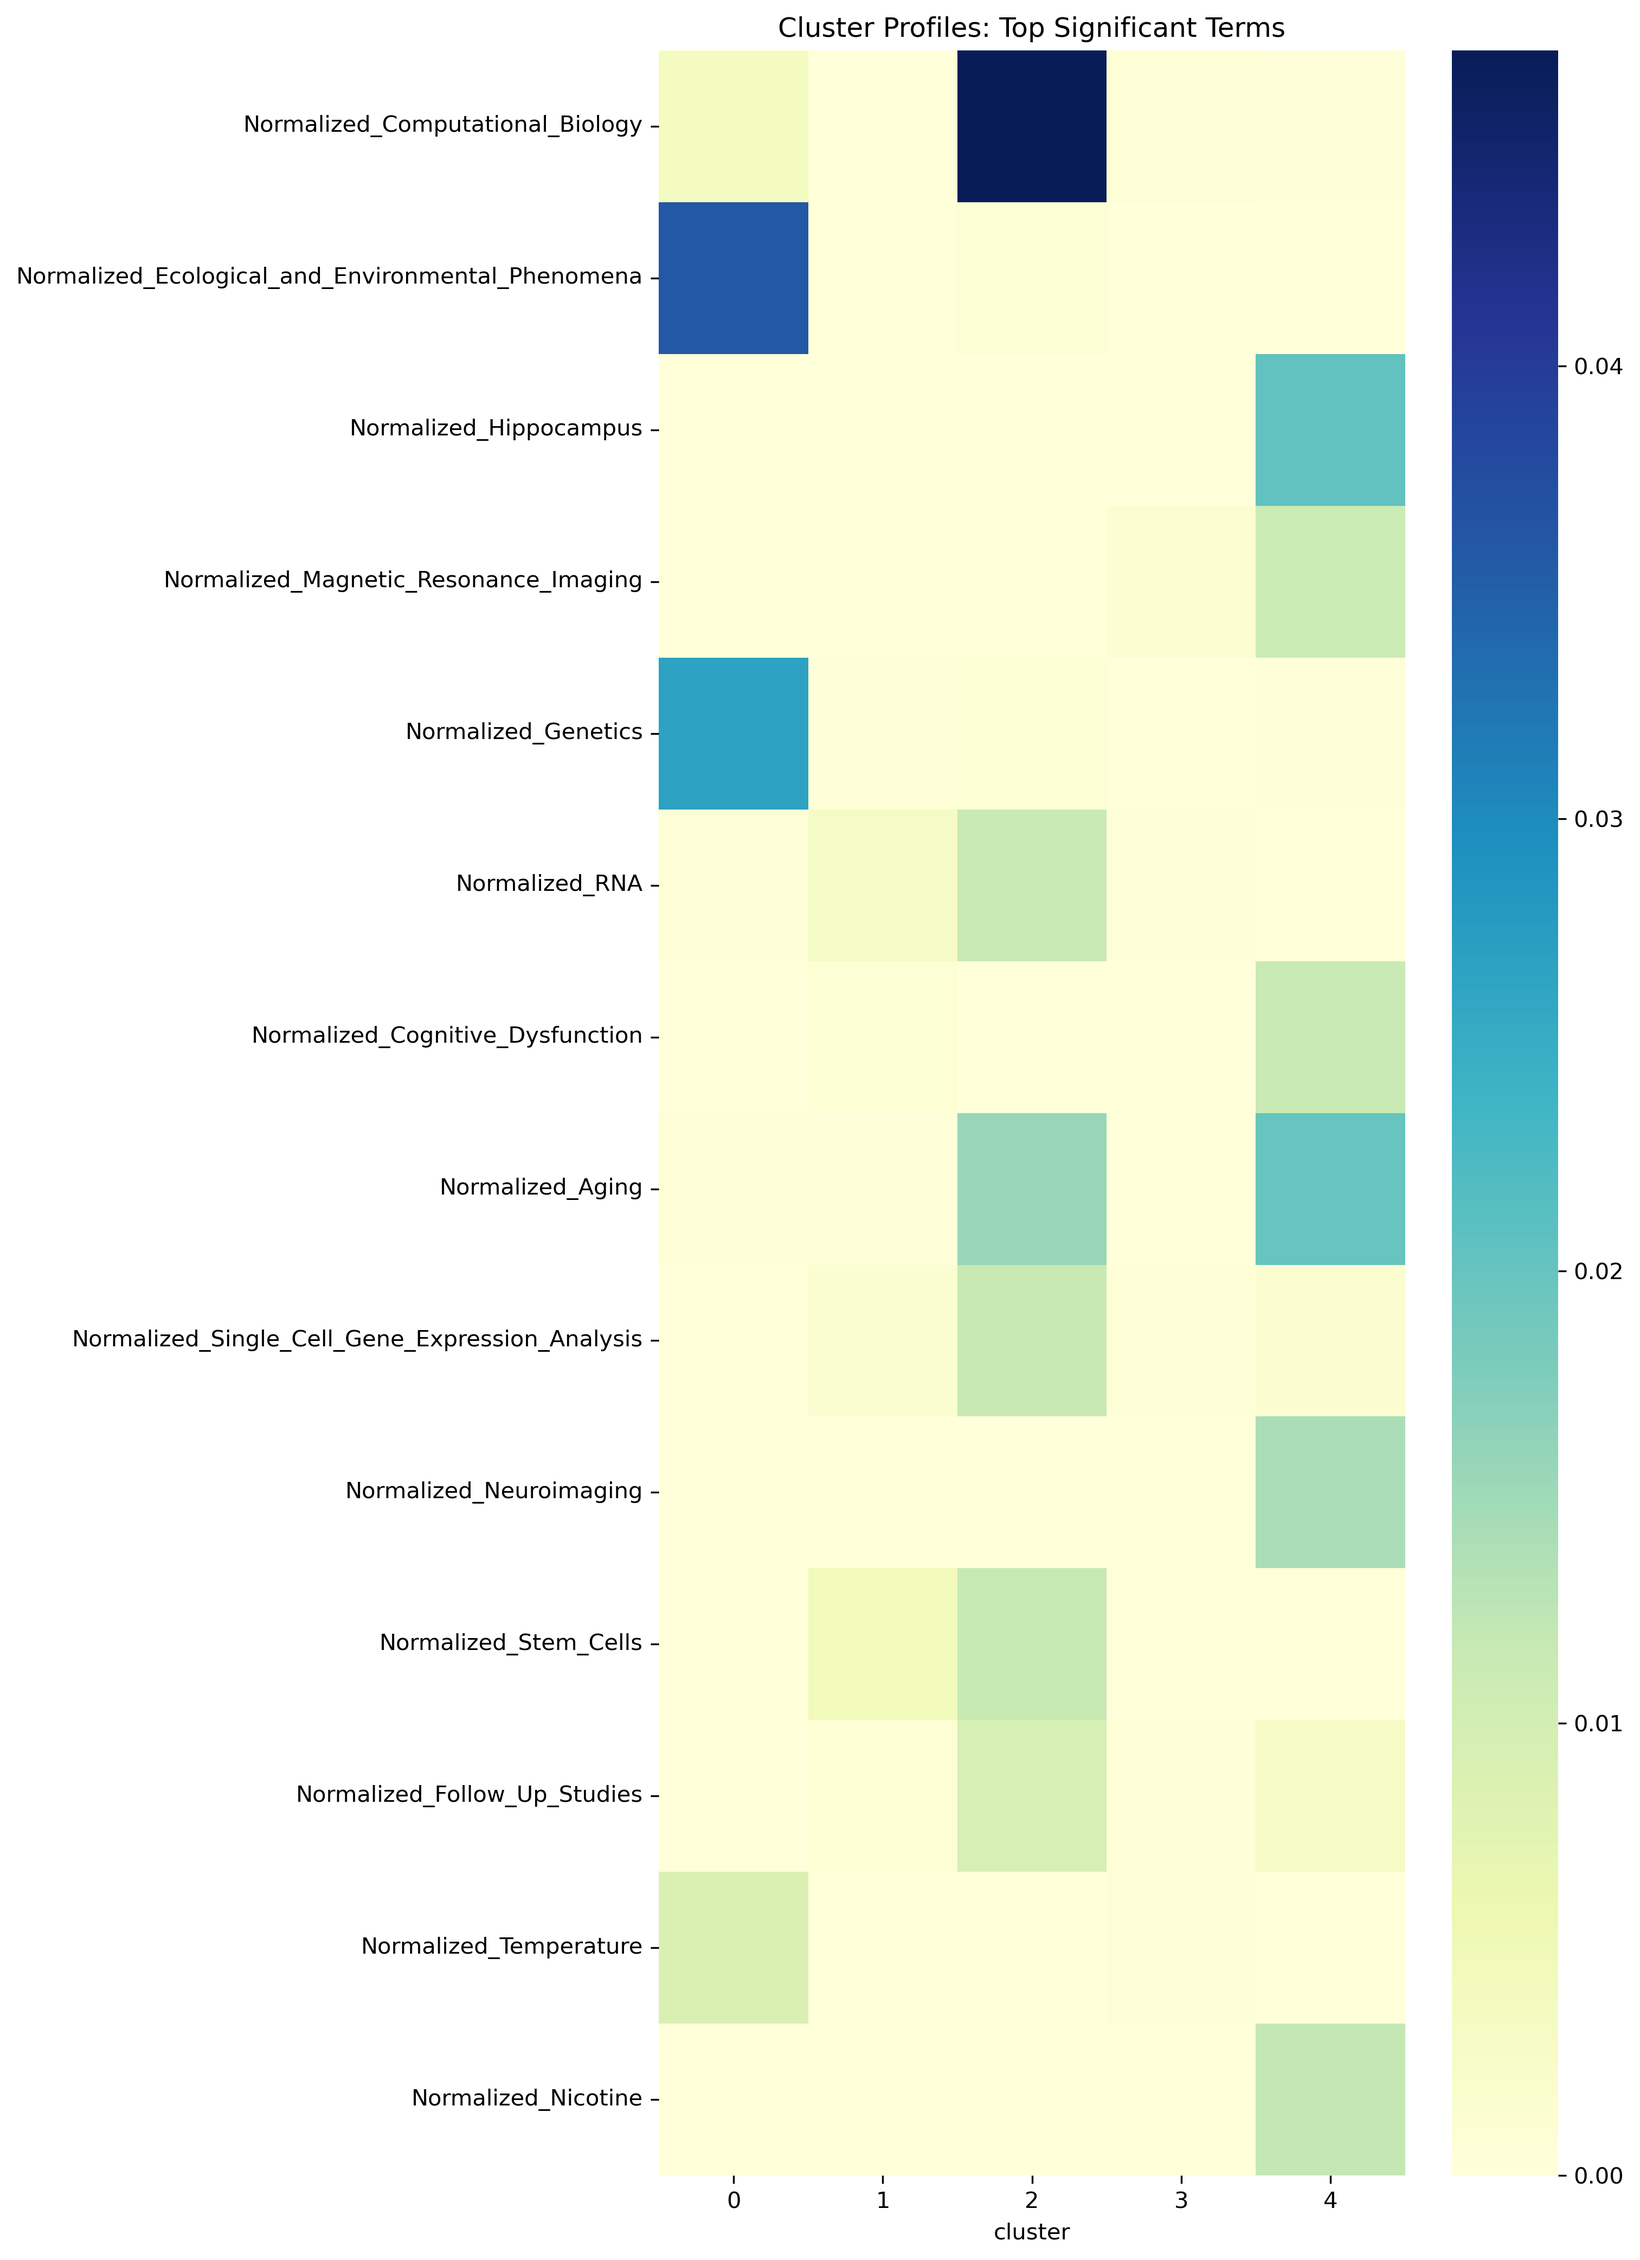
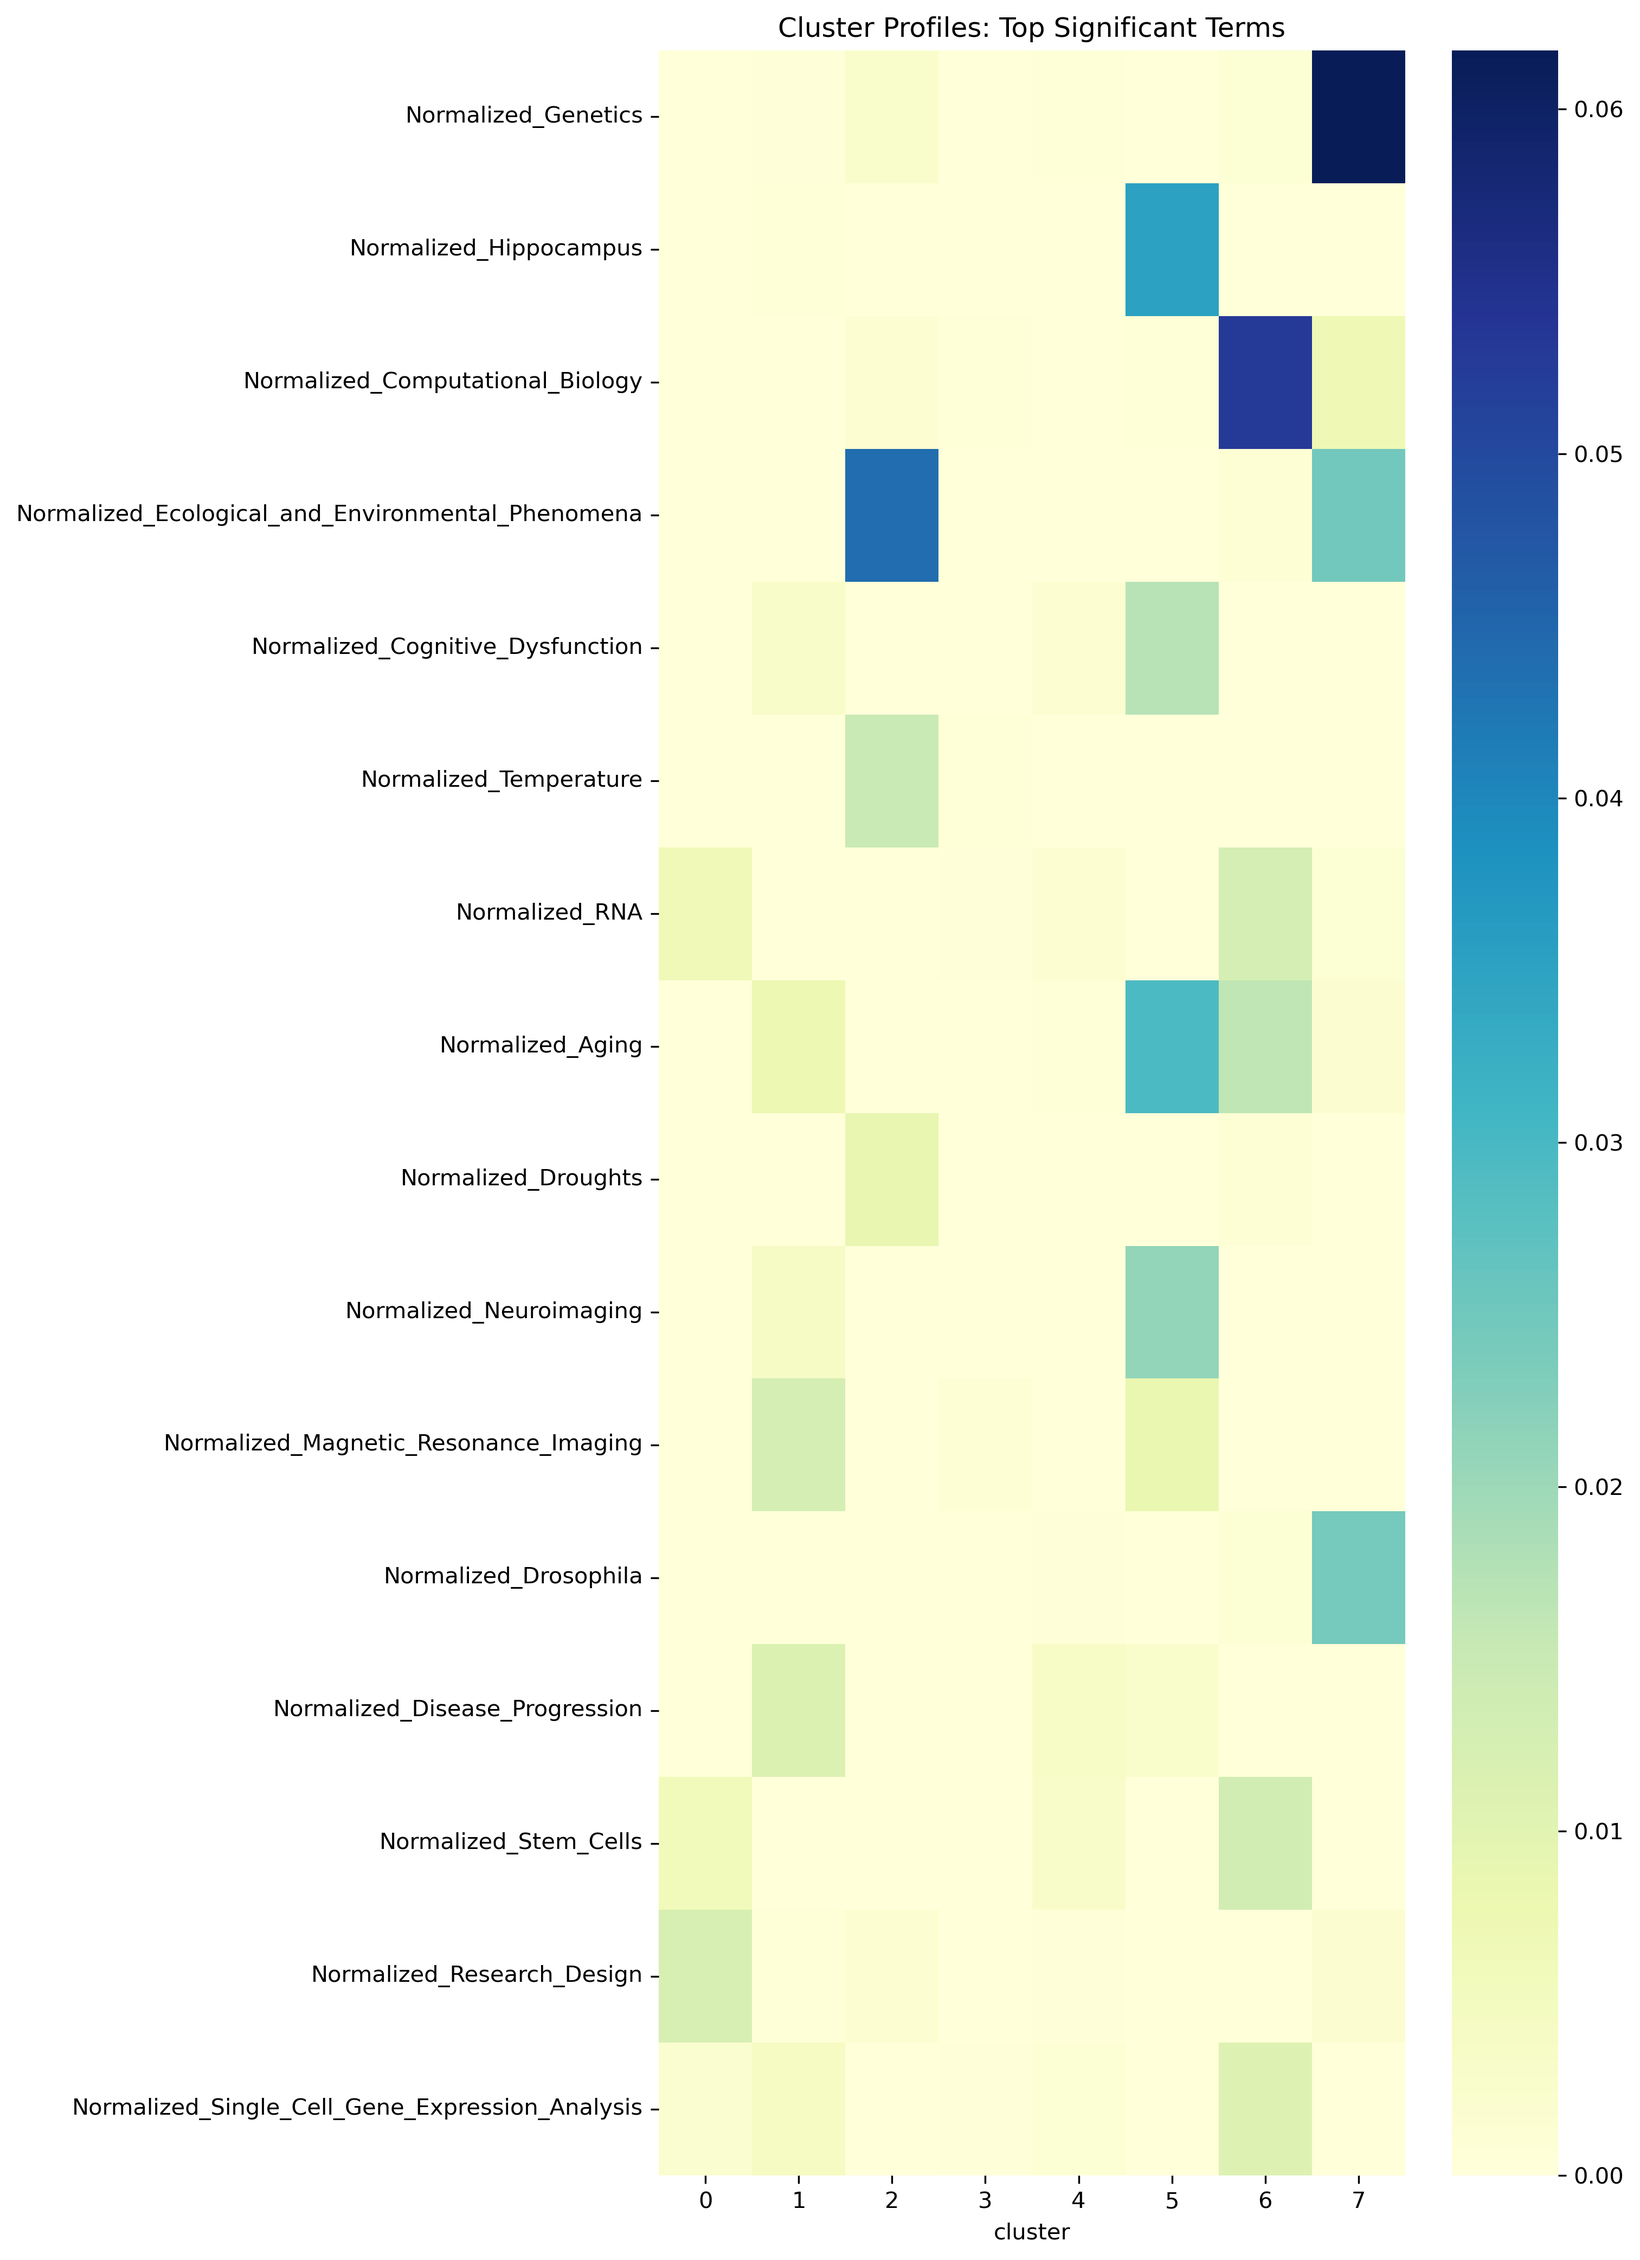
small updates

diff --git a/clustering_analyses.py b/clustering_analyses.py
@@ -107,11 +107,10 @@ plt.xticks(range(1, 11))
 plt.grid(True)
 plt.show()
 
-
 # Run UMAP with PCA components
 # UMAP takes into account different dimensions and represnts the information in 2D. If you want smaller and more refined clusters, then use more components. But the starting number of components is usually based on the elbow plot.
 pca_result = PCA().fit_transform(feature_matrix)
-num_components = 2
+num_components = 3
 pca_reduced_features = pca_result[:, :num_components]
 umap_result = UMAP().fit_transform(pca_reduced_features)
 umap_df_pca = pd.DataFrame(umap_result, columns=["V1", "V2"])
@@ -129,7 +128,7 @@ for num_components in config['pca_components_to_try']:
     fig_show(fig)
 
 # Update the number of components after iteration and looking at the elbow plot. This update will be used for the rest of the analysis.
-num_components = config['final_pca_components']
+num_components = 5
 pca_reduced_features = pca_result[:, :num_components]
 umap_result = UMAP(random_state=123).fit_transform(pca_reduced_features)
 umap_df_pca = pd.DataFrame(umap_result, columns=["V1", "V2"])
@@ -260,7 +259,7 @@ plt.show()
 
 ### K-means clustering on UMAP coordinates
 # Number of clusters for K-means
-n_clusters = config['final_pca_components'] # You can adjust this parameter to get desired number of clusters
+n_clusters = 8 # You can adjust this parameter to get desired number of clusters
 
 # Perform K-means clustering on UMAP coordinates
 kmeans = KMeans(n_clusters=n_clusters, random_state=42, n_init=10)
